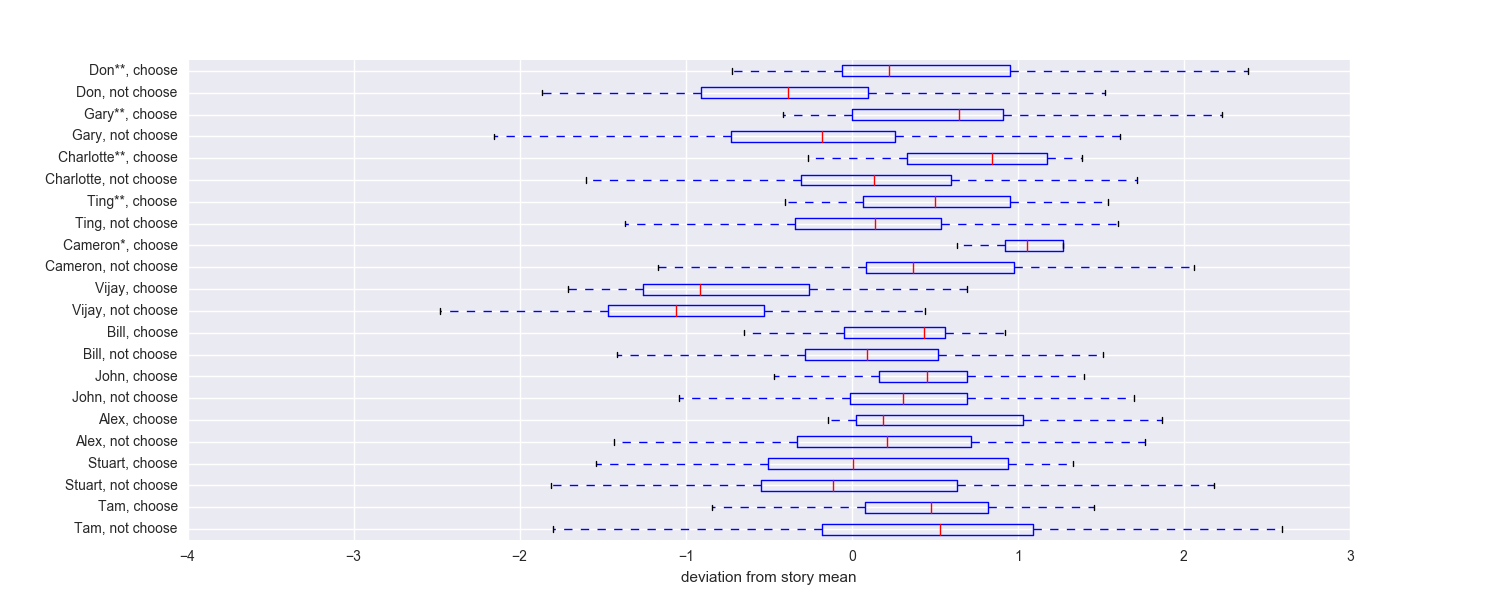
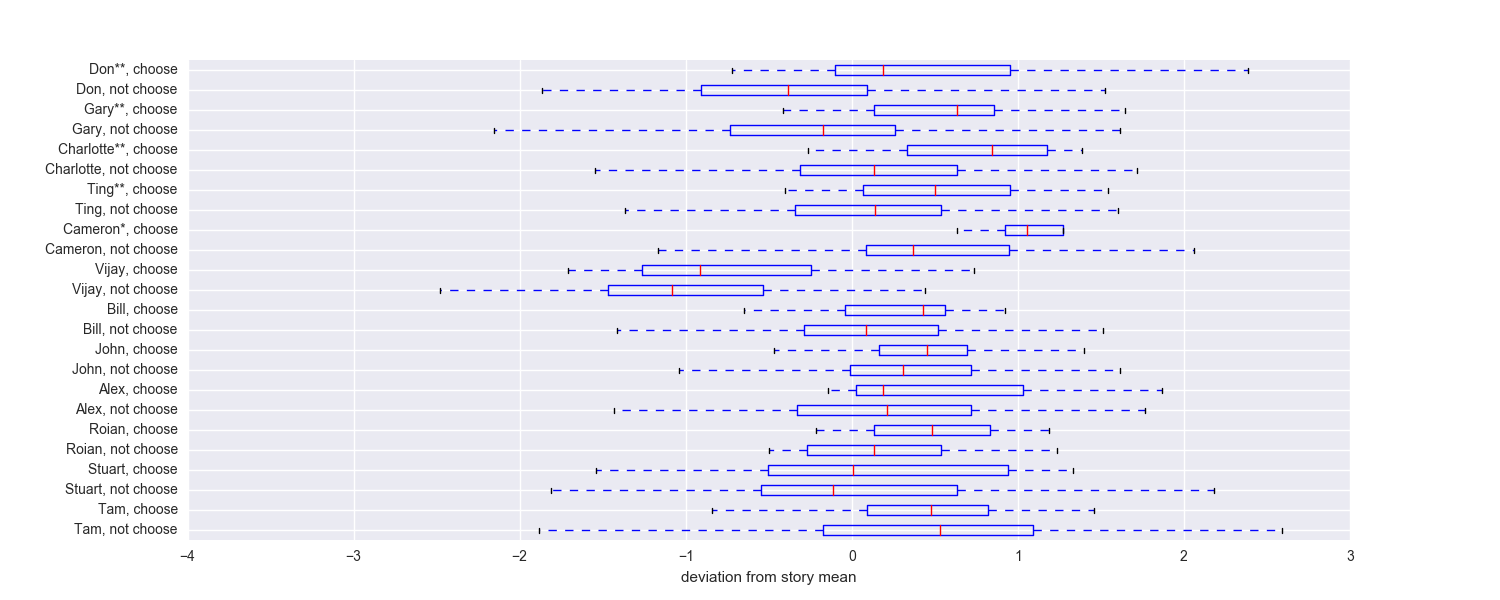
updated csvs, plots; added two new plots - distribution over individual raters scores, regularized correlation

diff --git a/code/gen_score_plots.py b/code/gen_score_plots.py
@@ -5,11 +5,56 @@ import matplotlib.patheffects as pe
 import scipy.stats
 import seaborn as sns
 
+
+# preliminaries
 ratings  = pd.read_csv('csv/ratings.csv')
 attr     = pd.read_csv('csv/attr.csv')
 
-n_raters = 11;
+new_columns = []
+for cc in ratings.columns:
+    new_columns.append(cc.replace('\n',''))
+ratings.columns = new_columns
+
+n_raters = 13;
+ratings_shape = ratings.shape
+all_ratings   = ratings.iloc[
+    :, [ratings_shape[1]-2,]+list(range(1,n_raters+1))]
 ratings  = ratings.iloc[:,1:n_raters+1]
+
+
+# rater distributions
+plt.figure(figsize=(10,6))
+ax = sns.violinplot(ratings,orient='v',scale='width',cut=0,gridsize=50)
+ax.set_ylim(1,5)
+plt.xticks(np.arange(13),ratings.columns,rotation=45)
+plt.ylabel('score')
+plt.savefig('images/rater_distribution.png')
+plt.close()
+
+
+# rater correlations
+corr = np.zeros( (n_raters+1,n_raters+1) )
+n_smooth = 10
+n_iters  = 500
+for ii in range(n_iters):
+    corr_smoothing = pd.DataFrame(
+        np.random.randn(n_smooth,n_raters+1)+3.,
+        columns=all_ratings.columns)
+    ratings_smoothed = pd.concat([all_ratings, corr_smoothing])
+    cc = ratings_smoothed.corr()
+    corr += cc.values
+corr /= n_iters
+np.fill_diagonal(corr, np.nan)
+
+c2 = all_ratings.corr(min_periods=10)
+idx = np.isnan(c2)
+corr[idx.values] = np.nan
+
+plt.figure(figsize=(8,8))
+sns.heatmap(corr,annot=True,fmt='.02f',linewidths=1, cbar=False)
+plt.xticks(0.5+np.arange(n_raters+1),all_ratings.columns,rotation=45)
+plt.yticks(0.5+np.arange(n_raters,-1,-1),all_ratings.columns,rotation=0)
+plt.savefig('images/rater_correlations.png')
 
 
 # author_means.png
@@ -40,11 +85,6 @@ plt.close()
 
 # chooser_self_bias.png
 #   box plot for person's ratings, when chooser and not
-new_columns = []
-for cc in ratings.columns:
-    new_columns.append(cc.replace('\n',''))
-ratings.columns = new_columns
-
 mean_rating = attr.b_mean
 deviation   = ratings.sub(mean_rating, axis=0)
 dev_dist    = []
@@ -72,6 +112,8 @@ for ii in range(0,n_raters):
                      [vv_out,vv_in,ratings.columns[ii],sgnf]] )
 
 for ii in sorted(sb_info):
+    if np.isnan(ii[0]):
+        continue
     dev_dist.append(ii[1][0])
     dev_dist.append(ii[1][1])
     labels.append(

diff --git a/README.md b/README.md
@@ -27,3 +27,15 @@ for each person, deviation from group mean, split into cases where
 person is chooser versus not chooser
 
 <a href="https://raw.githubusercontent.com/gbhuang/shortsf_analysis/master/images/chooser_self_bias.png"><img src="images/chooser_self_bias.png"></a>
+
+## [individual rater distributions](https://raw.githubusercontent.com/gbhuang/shortsf_analysis/master/images/rater_distribution.png)
+
+violin plot showing distribution of scores per person
+
+<a href="https://raw.githubusercontent.com/gbhuang/shortsf_analysis/master/images/rater_distribution.png"><img src="images/rater_distribution.png"></a>
+
+## [rater correlations](https://raw.githubusercontent.com/gbhuang/shortsf_analysis/master/images/rater_correlations.png)
+
+regularized estimate of correlations between pairs of reviewers (10 observations minimum)
+
+<a href="https://raw.githubusercontent.com/gbhuang/shortsf_analysis/master/images/rater_correlations.png"><img src="images/rater_correlations.png"></a>
